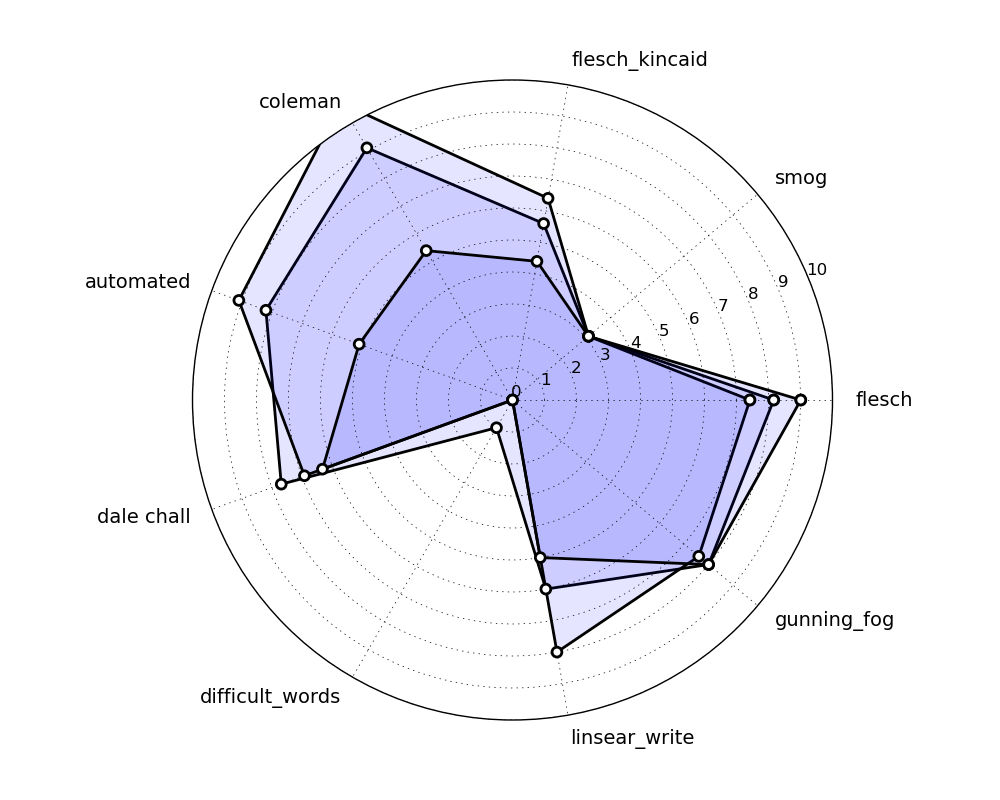
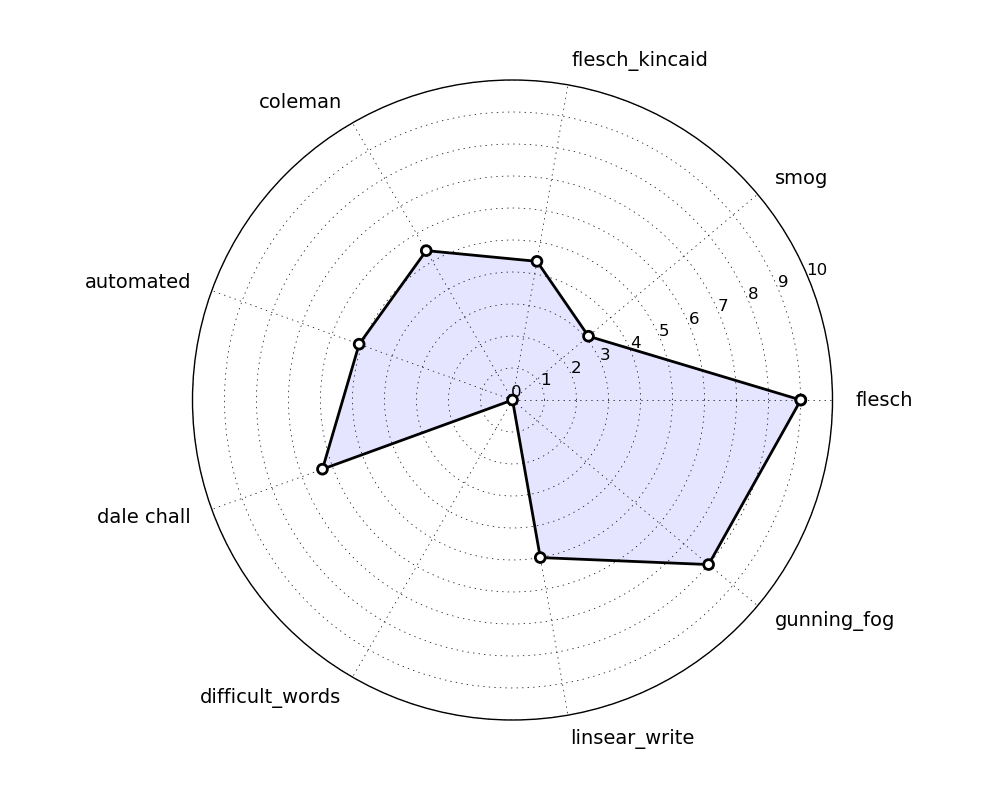
a

Changed region(s): [[0.217, 0.125, 0.775, 0.8125]]

diff --git a/app/Http/Controllers/TextController.php b/app/Http/Controllers/TextController.php
@@ -69,6 +69,7 @@ class TextController extends Controller
         $inf.='<h5>User: '.$user->name.'</h5>';
 
         $data = array();
+        $data2 = array();
         foreach ($testsforuser as $testforuser){
 
             $value = array();
@@ -102,15 +103,17 @@ class TextController extends Controller
 
             }
             $data[]=$value;
+            $data2[]=$tasca->name_task;
             //unset($value);
         }
 
-        exec("python /var/www/html/masterv1/storage/python/TS_part2.py ".escapeshellarg(json_encode($data)),$output2);
-        foreach ($output2 as $line) print "$line<br/>";
+        exec("python /var/www/html/masterv1/storage/python/TS_part2.py ".escapeshellarg(json_encode($data)).escapeshellarg(json_encode($data2)),$output2);
+        //foreach ($output2 as $line) print "$line<br/>";
 
         $im = imagecreatefrompng("img_text.png");
         header('Content-Type: image/png');
         $inf.='<h6><img src="/var/www/html/masterv1/public/img_text.png" width="600"></h6>';
+
 
         $inf.='</h6></body>';
         $pdf = \App::make('dompdf.wrapper');

diff --git a/storage/python/TS_part2.py b/storage/python/TS_part2.py
@@ -12,6 +12,7 @@ from textstat import textstat
 import codecs
 
 data = json.loads(sys.argv[1])
+#data2 = json.loads(sys.argv[2])
 #print json.dumps(data[0])
 
 # Data to be represented
@@ -48,7 +49,7 @@ for values in data:
             [path.Path.LINETO,]*(len(values) -1) + \
             [ path.Path.CLOSEPOLY ]
     _path = path.Path(points, codes)
-    #_patch = patches.PathPatch(_path, fill=True, color='blue', linewidth=0, alpha=.1, label="User %r test" % sys.argv[1])
+    #_patch = patches.PathPatch(_path, fill=True, color='blue', linewidth=0, alpha=.1, label="User %r test" % data2[1])
     _patch = patches.PathPatch(_path, fill=True, color='blue', linewidth=0, alpha=.1)
     axes.add_patch(_patch)
     _patch = patches.PathPatch(_path, fill=False, linewidth = 2)
@@ -84,6 +85,7 @@ for i in range(len(properties)):
 
 #plt.legend(["User train", "User Task Test"])
 
-plt.legend()
+#plt.legend()
+#plt.legend(["User train", "User Task Test"])
 plt.savefig('img_text.png')
 #plt.show()
